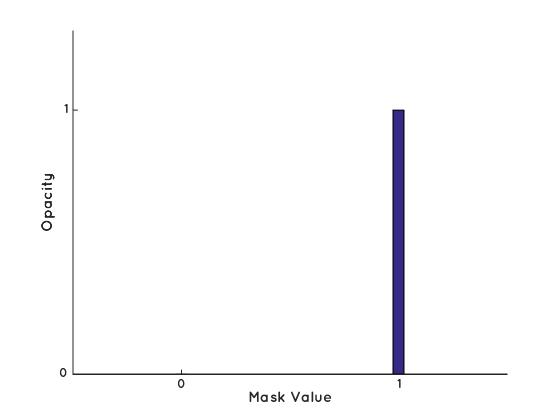
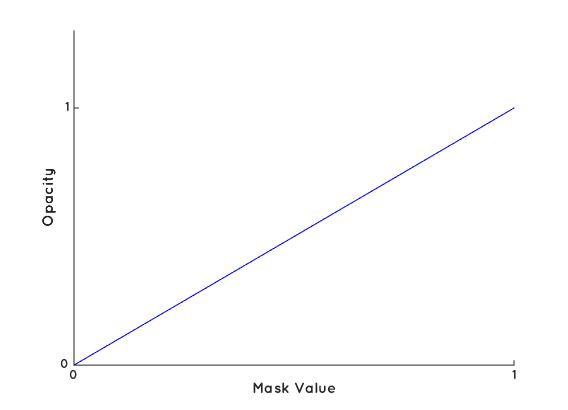
Updated variation 2 graph to be linear (turns out it is...)

diff --git a/Final-Report/images/thresholdvariation2.m b/Final-Report/images/thresholdvariation2.m
@@ -15,7 +15,7 @@ set(gca, 'FontWeight', 'bold');
 % set(title('Variant 1: Opacity Transfer Function'), 'FontSize', 16);
 set(xlabel('Mask Value'), 'FontWeight', 'bold');
 set(ylabel('Opacity'), 'FontWeight', 'bold');
-axis([-0.5, 1.5, 0, 1.3]);
+axis([0, 1, 0, 1.3]);
 ax = gca;
 ax.XTick = [0, 1];
 ax.YTick = [0, 1];
@@ -33,4 +33,4 @@ hold on;
 % text([max], [1.1], ['--->'], 'VerticalAlignment','bottom', 'HorizontalAlignment','right');
 
 % Plot Data
-bar(x, y, 0.05) %, 'Color', 'b');
+plot(x, y, 'Color', 'b');
